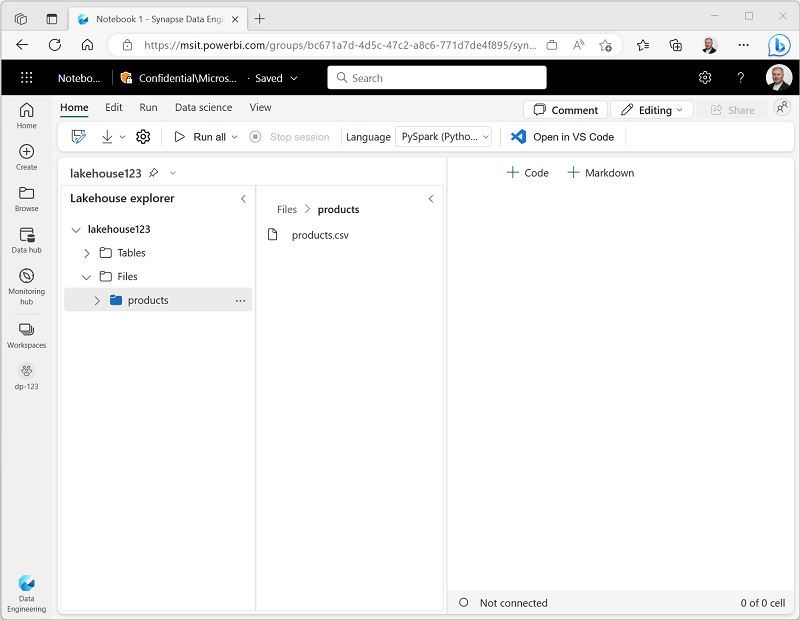
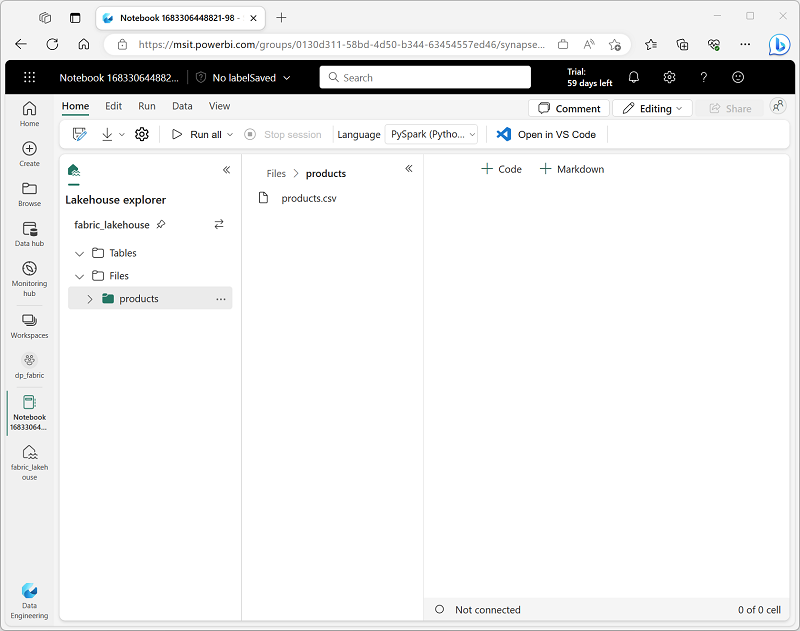
Updated screenshots

Changed region(s): [[0.0, 0.0, 1.0, 0.7661], [0.0, 0.9194, 1.0, 1.0]]

diff --git a/Instructions/Labs/03-delta-lake.md b/Instructions/Labs/03-delta-lake.md
@@ -29,17 +29,15 @@ Before working with data in Fabric, create a workspace with Fabric capacity enab
 
 Now that you have a workspace, it's time to switch to the *Data engineering* experience in the portal and create a data lakehouse for the data you're going to analyze.
 
-1. At the bottom left of the Power BI portal, select the **Power BI** icon and switch to the **Data engineering** experience, as shown here:
+1. At the bottom left of the Power BI portal, select the **Power BI** icon and switch to the **Data Engineering** experience.
 
-    ![Screenshot of the experience menu in Power BI.](./Images/data-engineering.png)
-
-2. In the **Data engineering** home page, create a new **Lakehouse** with a name of your choice.
+2. In the **Synapse Data Engineering** home page, create a new **Lakehouse** with a name of your choice.
 
     After a minute or so, a new empty lakehouse. You need to ingest some data into the data lakehouse for analysis. There are multiple ways to do this, but in this exercise you'll simply download a text file to your local computer and then upload it to your lakehouse.
 
 3. Download the data file for this exercise from [https://github.com/MicrosoftLearning/dp-data/raw/main/products.csv](https://github.com/MicrosoftLearning/dp-data/raw/main/products.csv), saving it as **products.csv** on your local computer.
 
-4. Return to the web browser tab containing your lakehouse, and in the **...** menu for the **Files** folder in the **Lakehouse explorer** pane, select **New subfolder** and create a folder named **products**.
+4. Return to the web browser tab containing your lakehouse, and in the **...** menu for the **Files** folder in the **Explorer** pane, select **New subfolder** and create a folder named **products**.
 
 5. In the **...** menu for the **products** folder, select **Upload** and **Upload files**, and then upload the **products.csv** file from your local computer to the lakehouse.
 6. After the file has been uploaded, select the **products** folder; and verify that the **products.csv** file has been uploaded, as shown here:
@@ -53,7 +51,7 @@ Now that you have a workspace, it's time to switch to the *Data engineering* exp
     After a few seconds, a new notebook containing a single *cell* will open. Notebooks are made up of one or more cells that can contain *code* or *markdown* (formatted text).
 
 2. Select the existing cell in the notebook, which contains some simple code, and then use its **&#128465;** (*Delete*) icon at its top-right to remove it - you will not need this code.
-3. In the **Explorer** pane on the left, expand **Files** and select **products** to reveal a new pane showing the **products.csv** file you uploaded previously:
+3. In the **Lakehouse explorer** pane on the left, expand **Files** and select **products** to reveal a new pane showing the **products.csv** file you uploaded previously:
 
     ![Screenshot of a notebook with a Files pane.](./Images/notebook-products.png)
 
@@ -100,25 +98,25 @@ You can save the dataframe as a delta table by using the `saveAsTable` method. D
 
 You can also create *external* tables for which the schema metadata is defined in the metastore for the lakehouse, but the data files are stored in an external location.
 
-1. In the **Lakehouse explorer** pane, in the **...** menu for the **Files** folder, select **Copy ABFS path**.
-
-    The ABFS path is the filly qualified path to the **Files** folder in the OneLake storage for your lakehouse - similar to this:
-
-    *abfss://workspace@tenant-onelake.dfs.fabric.microsoft.com/lakehousename.Lakehouse/Files*
-
-2. Add another new code cell, and add the following code to it, replacing **<abfs_path>** with the path you copied to the clipboard:
+1. Add another new code cell, and add the following code to it:
 
     ```python
     df.write.format("delta").saveAsTable("external_products", path="<abfs_path>/external_products")
     ```
 
-    The code saves the dataframe as an external table with data files in a folder named **external_products** in your **Files** folder location. The full path should look similar to this:
+2. In the **Lakehouse explorer** pane, in the **...** menu for the **Files** folder, select **Copy ABFS path**.
+
+    The ABFS path is the fully qualified path to the **Files** folder in the OneLake storage for your lakehouse - similar to this:
+
+    *abfss://workspace@tenant-onelake.dfs.fabric.microsoft.com/lakehousename.Lakehouse/Files*
+
+3. In the code you entered into the code cell, replace **<abfs_path>** with the path you copied to the clipboard so that the code saves the dataframe as an external table with data files in a folder named **external_products** in your **Files** folder location. The full path should look similar to this:
 
     *abfss://workspace@tenant-onelake.dfs.fabric.microsoft.com/lakehousename.Lakehouse/Files/external_products*
 
-3. In the **Lakehouse explorer** pane, in the **...** menu for the **Tables** folder, select **Refresh**. Then expand the **Tables** node and verify that the **external_products** table has been created.
+4. In the **Lakehouse explorer** pane, in the **...** menu for the **Tables** folder, select **Refresh**. Then expand the **Tables** node and verify that the **external_products** table has been created.
 
-4. In the **Lakehouse explorer** pane, in the **...** menu for the **Files** folder, select **Refresh**. Then expand the **Files** node and verify that the **external_products** folder has been created for the table's data files.
+5. In the **Lakehouse explorer** pane, in the **...** menu for the **Files** folder, select **Refresh**. Then expand the **Files** node and verify that the **external_products** folder has been created for the table's data files.
 
 ### Compare *managed* and *external* tables
 
@@ -161,14 +159,14 @@ Let's explore the differences between managed and external tables.
 
 ### Use SQL to create a table
 
-1. Add another code cell and run the following code, replacing **<abfs_path>** with the ABFS path for your **Files** folder:
+1. Add another code cell and run the following code:
 
     ```sql
     %%sql
 
     CREATE TABLE products
     USING DELTA
-    LOCATION '<abfs_path>/external_products';
+    LOCATION 'Files/external_products';
     ```
 
 2. In the **Lakehouse explorer** pane, in the **...** menu for the **Tables** folder, select **Refresh**. Then expand the **Tables** node and verify that a new table named **products** is listed. Then expand the table to verify that it's schema matches the original dataframe that was saved in the **external_products** folder.
@@ -207,10 +205,10 @@ Transaction history for delta tables is stored in JSON files in the **delta_log*
 
     The results show the history of transactions recorded for the table.
 
-3. Add another code cell and run the following code, replacing **<abfs_path>** with the ABFS path for your **Files** folder:
+3. Add another code cell and run the following code:
 
     ```python
-    delta_table_path = '<abfs_path>/external_products'
+    delta_table_path = 'Files/external_products'
 
     # Get the current data
     current_data = spark.read.format("delta").load(delta_table_path)
